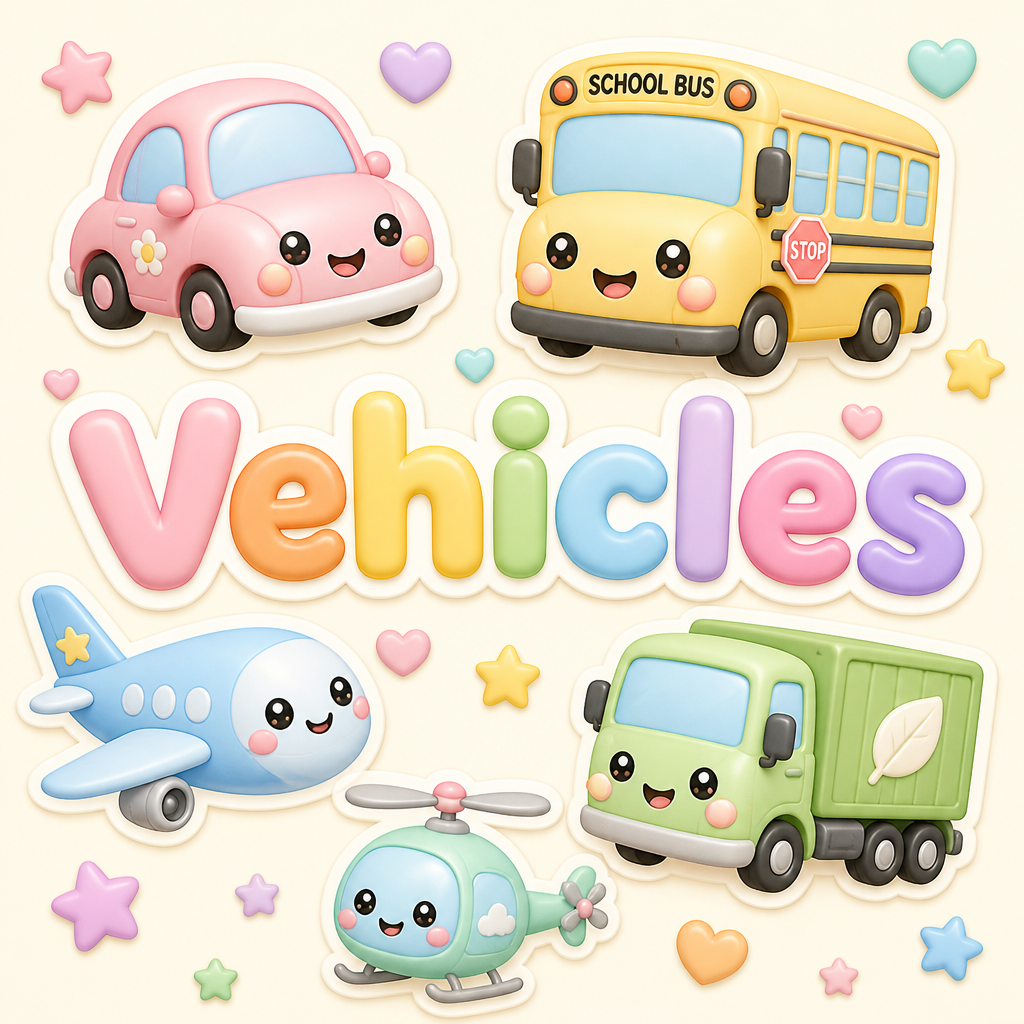
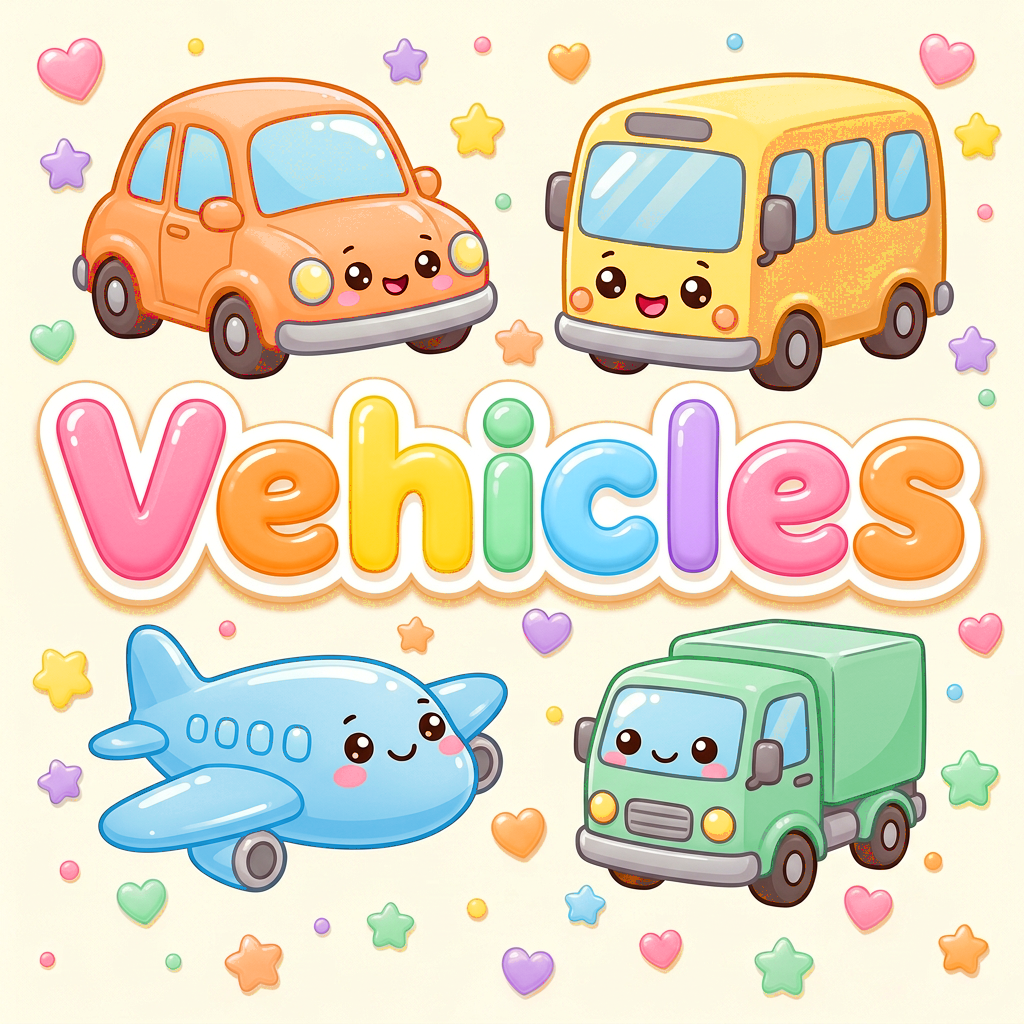
Ortak AppBackground: gokkusagi arka plan tum ekranlarda
- Yeni lib/widgets/app_background.dart bileseni
- Ana, kategori, boyama ve tamamlama ekranlari ayni pastel arka plani kullaniyor
- Yeni Yiyecekler ve Araclar kapaklari

diff --git a/lib/widgets/app_background.dart b/lib/widgets/app_background.dart
@@ -1,0 +1,25 @@
+import 'package:flutter/material.dart';
+import '../theme/app_theme.dart';
+
+/// Shared soft pastel rainbow background used across every Arvenland screen.
+///
+/// The gradient is intentionally very low saturation — it should feel like
+/// warm paper with a whisper of rainbow, never compete with the artwork.
+class AppBackground extends StatelessWidget {
+  final Widget child;
+  const AppBackground({super.key, required this.child});
+
+  @override
+  Widget build(BuildContext context) {
+    return Container(
+      decoration: const BoxDecoration(
+        gradient: LinearGradient(
+          begin: Alignment.topLeft,
+          end: Alignment.bottomRight,
+          colors: AppTheme.softRainbowBg,
+        ),
+      ),
+      child: child,
+    );
+  }
+}

diff --git a/lib/screens/completion_screen.dart b/lib/screens/completion_screen.dart
@@ -6,6 +6,7 @@ import 'package:google_fonts/google_fonts.dart';
 
 import '../models/drawing.dart';
 import '../theme/app_theme.dart';
+import '../widgets/app_background.dart';
 import 'home_screen.dart';
 
 class CompletionScreen extends StatefulWidget {
@@ -107,14 +108,8 @@ class _CompletionScreenState extends State<CompletionScreen>
   @override
   Widget build(BuildContext context) {
     return Scaffold(
-      body: Container(
-        decoration: const BoxDecoration(
-          gradient: LinearGradient(
-            begin: Alignment.topCenter,
-            end: Alignment.bottomCenter,
-            colors: [AppTheme.bgStart, AppTheme.bgEnd],
-          ),
-        ),
+      backgroundColor: Colors.transparent,
+      body: AppBackground(
         child: SafeArea(
           child: Stack(
             children: [

diff --git a/lib/screens/category_detail_screen.dart b/lib/screens/category_detail_screen.dart
@@ -2,6 +2,7 @@ import 'package:flutter/material.dart';
 import 'package:google_fonts/google_fonts.dart';
 import '../models/drawing.dart';
 import '../theme/app_theme.dart';
+import '../widgets/app_background.dart';
 import '../widgets/category_icon.dart';
 import '../widgets/drawing_image.dart';
 import 'painting_screen.dart';
@@ -19,14 +20,7 @@ class CategoryDetailScreen extends StatelessWidget {
   @override
   Widget build(BuildContext context) {
     return Scaffold(
-      body: Container(
-        decoration: const BoxDecoration(
-          gradient: LinearGradient(
-            begin: Alignment.topLeft,
-            end: Alignment.bottomRight,
-            colors: AppTheme.softRainbowBg,
-          ),
-        ),
+      body: AppBackground(
         child: SafeArea(
           child: Column(
             crossAxisAlignment: CrossAxisAlignment.stretch,

diff --git a/lib/screens/home_screen.dart b/lib/screens/home_screen.dart
@@ -3,6 +3,7 @@ import 'package:google_fonts/google_fonts.dart';
 import '../data/drawings_data.dart';
 import '../models/drawing.dart';
 import '../theme/app_theme.dart';
+import '../widgets/app_background.dart';
 import '../widgets/category_cover.dart';
 import 'category_detail_screen.dart';
 
@@ -40,14 +41,7 @@ class _HomeScreenState extends State<HomeScreen> {
   Widget build(BuildContext context) {
     final categories = _activeCategories;
     return Scaffold(
-      body: Container(
-        decoration: const BoxDecoration(
-          gradient: LinearGradient(
-            begin: Alignment.topLeft,
-            end: Alignment.bottomRight,
-            colors: AppTheme.softRainbowBg,
-          ),
-        ),
+      body: AppBackground(
         child: SafeArea(
           child: Column(
             crossAxisAlignment: CrossAxisAlignment.stretch,

diff --git a/lib/screens/painting_screen.dart b/lib/screens/painting_screen.dart
@@ -10,6 +10,7 @@ import '../models/drawing.dart';
 import '../models/stroke.dart';
 import '../providers/painting_provider.dart';
 import '../theme/app_theme.dart';
+import '../widgets/app_background.dart';
 import '../widgets/drawing_image.dart';
 import 'completion_screen.dart';
 
@@ -74,8 +75,9 @@ class _PaintingView extends StatelessWidget {
   @override
   Widget build(BuildContext context) {
     return Scaffold(
-      backgroundColor: const Color(0xFFFAF6EE),
-      body: SafeArea(
+      backgroundColor: Colors.transparent,
+      body: AppBackground(
+        child: SafeArea(
         left: false,
         right: false,
         bottom: false,
@@ -142,6 +144,7 @@ class _PaintingView extends StatelessWidget {
               ),
             );
           },
+        ),
         ),
       ),
     );